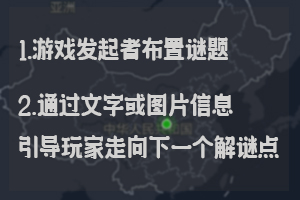
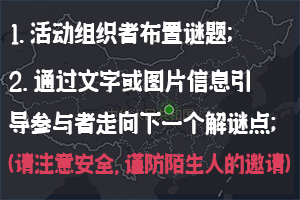
为了审核 修改'游戏'字眼->'活动'

diff --git a/miniprogram/pages/gamebegin/gamebegin.js b/miniprogram/pages/gamebegin/gamebegin.js
@@ -74,7 +74,7 @@ Page({
       } else {
         app.globalData.currentGameroom = gameinfos[0]; // 为了避免多次查询，把游戏数据存到本地全局变量中
         wx.showToast({
-          title: '正在加入游戏',
+          title: '正在加入活动', // '活动' 字眼替代 '游戏'
           icon: 'loading',
           mask: true,
           duration: 500
@@ -323,6 +323,12 @@ Page({
     return 0;
   },
 
+  openSettingCallback(res){
+    wx.reLaunch({
+      url: '/pages/index/index?type=mannulModifiedAuth'
+    });
+  },
+
   /**
    * 跳转到错误页面(有返回的jump)
    * msg: 错误码 @see app.js.globalData.ErrorType
@@ -341,31 +347,31 @@ Page({
     if (err.errMsg === "getLocation:fail:timeout") {
       this.setData({
         errorModalShow: true,
-        errorMsg: "启动游戏失败：获取地理位置信息超时 QAQ"
+        errorMsg: "启动活动失败：获取地理位置信息超时 QAQ"
       });
     }
     else if (err.errMsg.indexOf("collection") > -1) {
       this.setData({
         errorModalShow: true,
-        errorMsg: "网络不通畅：获取游戏信息超时，请稍后重试 QAQ" // 数据库问题
+        errorMsg: "网络不通畅：获取活动信息超时，请稍后重试 QAQ" // 数据库问题
       });
     }
     else if (err.errMsg.indexOf("getLocation:fail")>-1) {
       this.setData({
         errorModalShow: true,
-        errorMsg: "启动游戏失败：请保证您的地理信息能够被获取"
+        errorMsg: "启动活动失败：请保证您的地理信息能够被获取"
       });
     }
     else if (err.errMsg.indexOf("connect ETIMEDOUT")>-1) {
       this.setData({
         errorModalShow: true,
-        errorMsg: "网络不通畅：获取游戏信息超时，请稍后重试 QAQ"
+        errorMsg: "网络不通畅：获取活动信息超时，请稍后重试 QAQ"
       });
     }
     else if (err.errMsg === "no game founded"){
       this.setData({
         errorModalShow: true,
-        errorMsg: "没有找到相应的游戏 QAQ"
+        errorMsg: "没有找到相应的活动 QAQ"
       });
     }
     else {
@@ -374,7 +380,7 @@ Page({
       logger.debug('【debug log】', 'gamebegin.js', "" + new Date(), err);
       this.setData({
         errorModalShow: true,
-        errorMsg: "启动游戏失败：*请确保网络连接通畅" // + err.errMsg
+        errorMsg: "启动活动失败：*请确保网络连接通畅" // + err.errMsg
       });
     }
 

diff --git a/miniprogram/pages/creategame/creategame.js b/miniprogram/pages/creategame/creategame.js
@@ -630,7 +630,7 @@ Page({
     this.setData({
       dataPublishModalShow: false  // 提前隐藏游戏发布参数输入框防止多次发布
     });
-    wx.showLoading({title: '发布游戏中'});
+    wx.showLoading({ title: '发布活动中'});
     // 从小程序端直接插入数据库
     const db = wx.cloud.database({
       env: app.globalData.database_env
@@ -653,8 +653,8 @@ Page({
         // 提示发布游戏成功
         wx.hideLoading();
         wx.showModal({
-          title: "游戏发布成功",
-          content: '游戏生成时间：' + new Date().format("yyyy-MM-dd") + "，将持续" + lasttime +
+          title: "活动发布成功",
+          content: '活动生成时间：' + new Date().format("yyyy-MM-dd") + "，将持续" + lasttime +
             "天，邀请码为【" + gamecode + "】，您可以分享给您的朋友。",
           showCancel: false,
           confirmText: "我已了解",
@@ -705,7 +705,7 @@ Page({
     // 一场游戏至少需要两个点
     if(this.data.markers.length<=1){
       wx.showToast({
-        title: '发布失败：一场游戏中至少需要两个埋点',
+        title: '发布失败：一场活动中至少需要两个埋点',
         icon:'none',
         duration: 2000,
         mask: true
@@ -756,7 +756,7 @@ Page({
     else if (err.errMsg.indexOf("collection") > -1) {
       this.setData({
         errorModalShow: true,
-        errorMsg: "网络不通畅：获取游戏信息超时，请稍后重试 QAQ" // 数据库问题
+        errorMsg: "网络不通畅：获取活动信息超时，请稍后重试 QAQ" // 数据库问题
       });
     }
     else if (err.errMsg === "timeout") {

diff --git a/miniprogram/mod/modules/factory.js b/miniprogram/mod/modules/factory.js
@@ -55,18 +55,18 @@ function buildMarker(martker_id, marker_name, geo, ext_info) {
  * 房主分享数据
  */
 function buildShareText(gamecode){
-  return "我在微信小程序【校园探宝】创建了一场户外解谜游戏，游戏邀请码【" + gamecode + "】，快来加入吧！"
+  return "我在微信小程序【校园探宝】创建了一场户外解谜活动，活动邀请码【" + gamecode + "】，快来加入吧！"
 }
 
 /**
  * 非房主分享数据
  */
 function buildShareGameText(gamecode) {
-  return "我正在微信小程序【校园探宝】参与一场户外解谜游戏，游戏邀请码【" + gamecode + "】，快来加入吧！"
+  return "我正在微信小程序【校园探宝】参与一场户外解谜活动，活动邀请码【" + gamecode + "】，快来加入吧！"
 }
 
 function buildTongGuanMa(code, gamecode) {
-  return "我在微信小程序【校园探宝】，户外解谜游戏【"+gamecode+"】中获胜，通关证明码【" + code + "】！"
+  return "我在微信小程序【校园探宝】，户外解谜活动【"+gamecode+"】中获胜，通关证明码【" + code + "】！"
 }
 
 module.exports.buildMarker = buildMarker;

diff --git a/miniprogram/pages/ingame/ingame.js b/miniprogram/pages/ingame/ingame.js
@@ -199,7 +199,7 @@ Page({
   tryDig(){
     if (!app.globalData.currentGameroom._active){
       wx.showToast({
-        title: '本场游戏已结束',
+        title: '本场活动已结束',
         icon: 'none',
         mask: true,
         duration: 2000
@@ -599,8 +599,8 @@ Page({
   showGameInfo(){
     let that = this;
     wx.showModal({
-      title: '游戏信息',
-      content: '游戏邀请码:【' + that.data.gamecode +"】",
+      title: '活动信息',
+      content: '活动邀请码:【' + that.data.gamecode +"】",
       confirmText: "点击复制",
       confirmColor:	"#0081ff",
       cancelColor:	"#aaaaaa",
@@ -638,7 +638,7 @@ Page({
     else if (err.errMsg.indexOf("collection") > -1) {
       this.setData({
         errorModalShow: true,
-        errorMsg: "网络不通畅：获取游戏信息超时，请稍后重试 QAQ" // 数据库问题
+        errorMsg: "网络不通畅：获取活动信息超时，请稍后重试 QAQ" // 数据库问题
       });
     }
     else if (err.errMsg === "timeout") {
